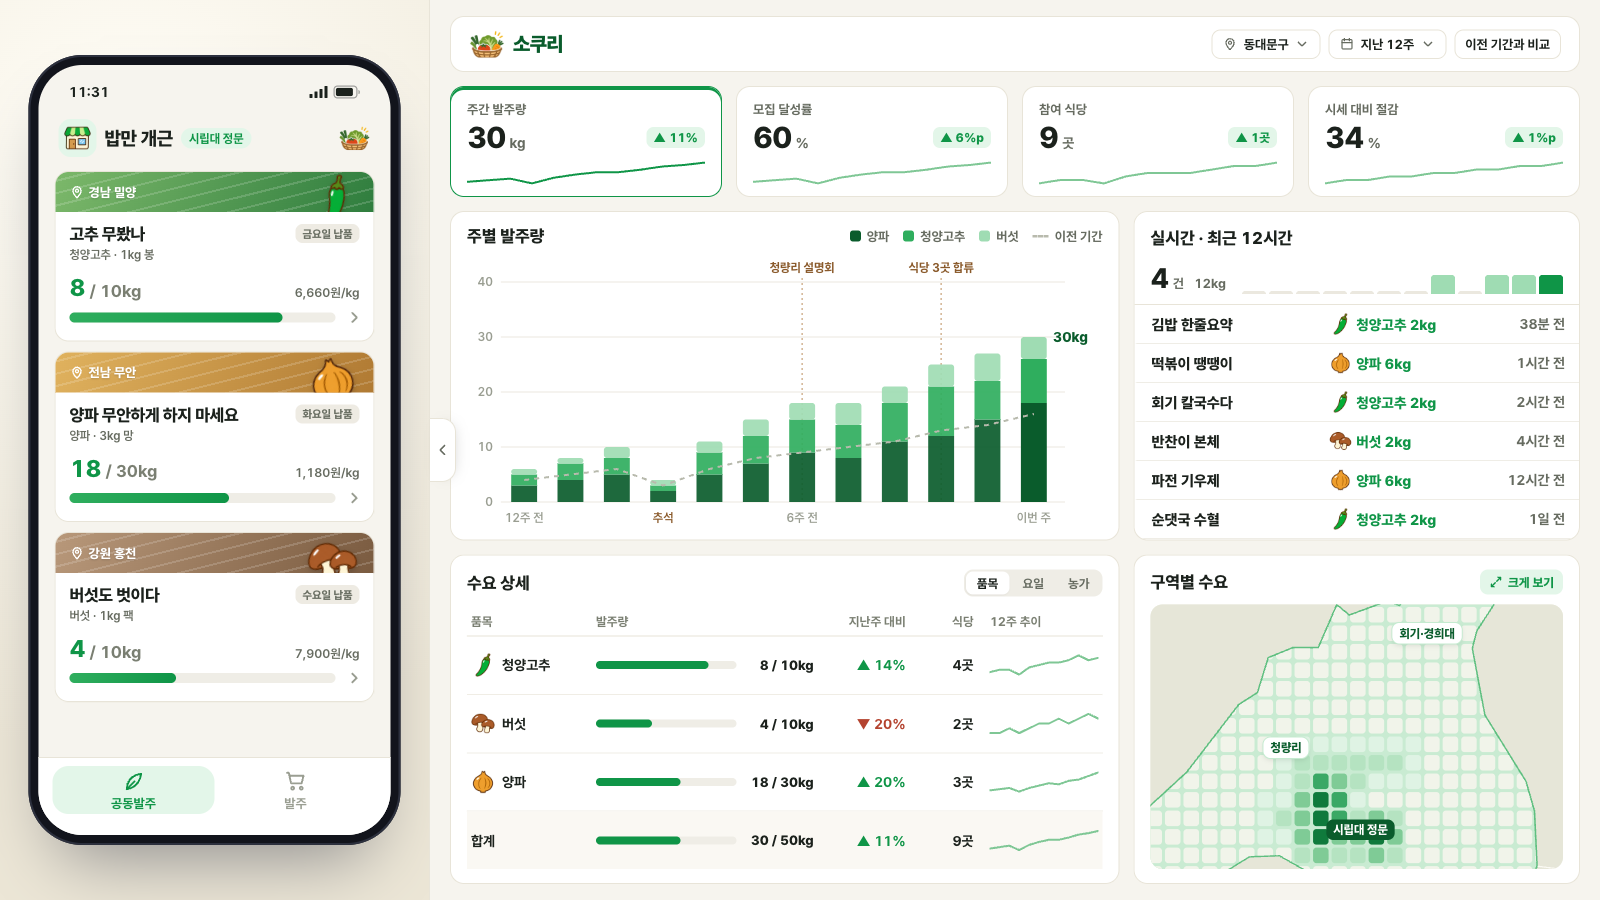
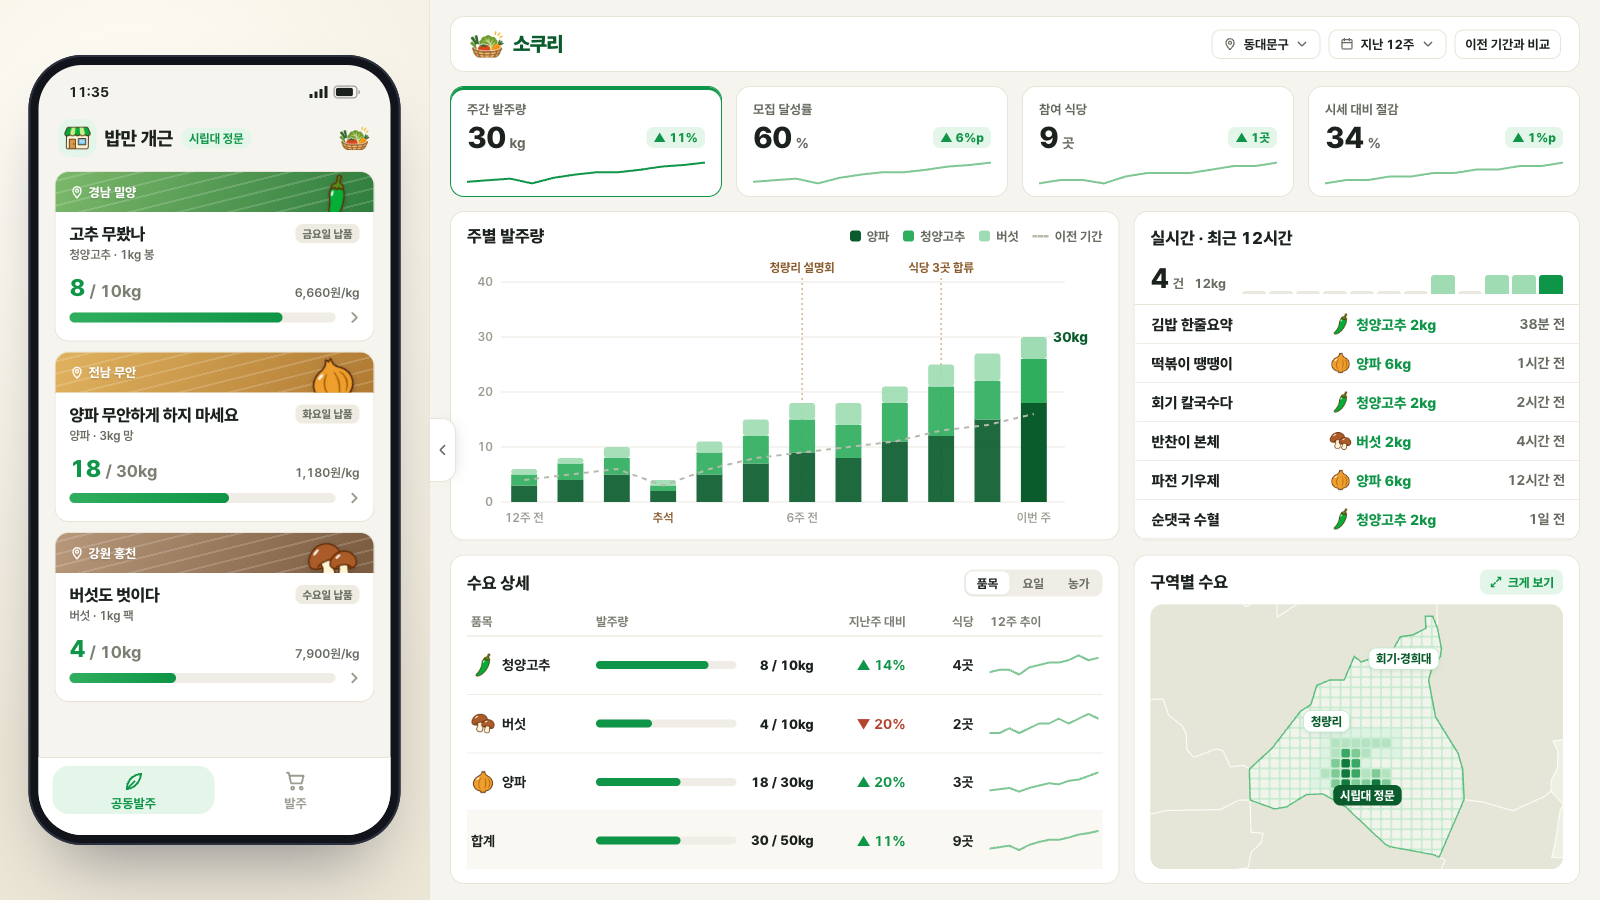
작은 지도를 동대문구 전체가 보이게 줌아웃

Changed region(s): [[0.7188, 0.6533, 0.9688, 0.9644]]

diff --git a/index.html b/index.html
@@ -1062,7 +1062,7 @@ function buildMini(){
 function fitMini(){
   const W=mini.clientWidth,H=mini.clientHeight;if(!W||!H||!ME.x)return;
   /* same framing idea as before: the three market areas, cover the box so the neighbours fill the corners */
-  const A=[ME,...CANDS],x0=Math.min(...A.map(a=>a.x))-20,y0=Math.min(...A.map(a=>a.y))-16,x1=Math.max(...A.map(a=>a.x))+20,y1=Math.max(...A.map(a=>a.y))+20;
+  const A=[ME,...CANDS],B=miniSvg._b,x0=B.x-6,y0=B.y-6,x1=B.x+B.width+6,y1=B.y+B.height+6;
   const k=Math.min(W/(x1-x0),H/(y1-y0)),fw=W/k,fh=H/k,vx=(x0+x1)/2-fw/2,vy=(y0+y1)/2-fh/2;
   miniSvg.setAttribute('viewBox',`${vx} ${vy} ${fw} ${fh}`);
   A.forEach(a=>{$$(`[data-a="${a.id}"]`,mini).forEach(el=>{el.style.left=(a.x-vx)*k+'px';el.style.top=(a.y-vy)*k+'px'})});
